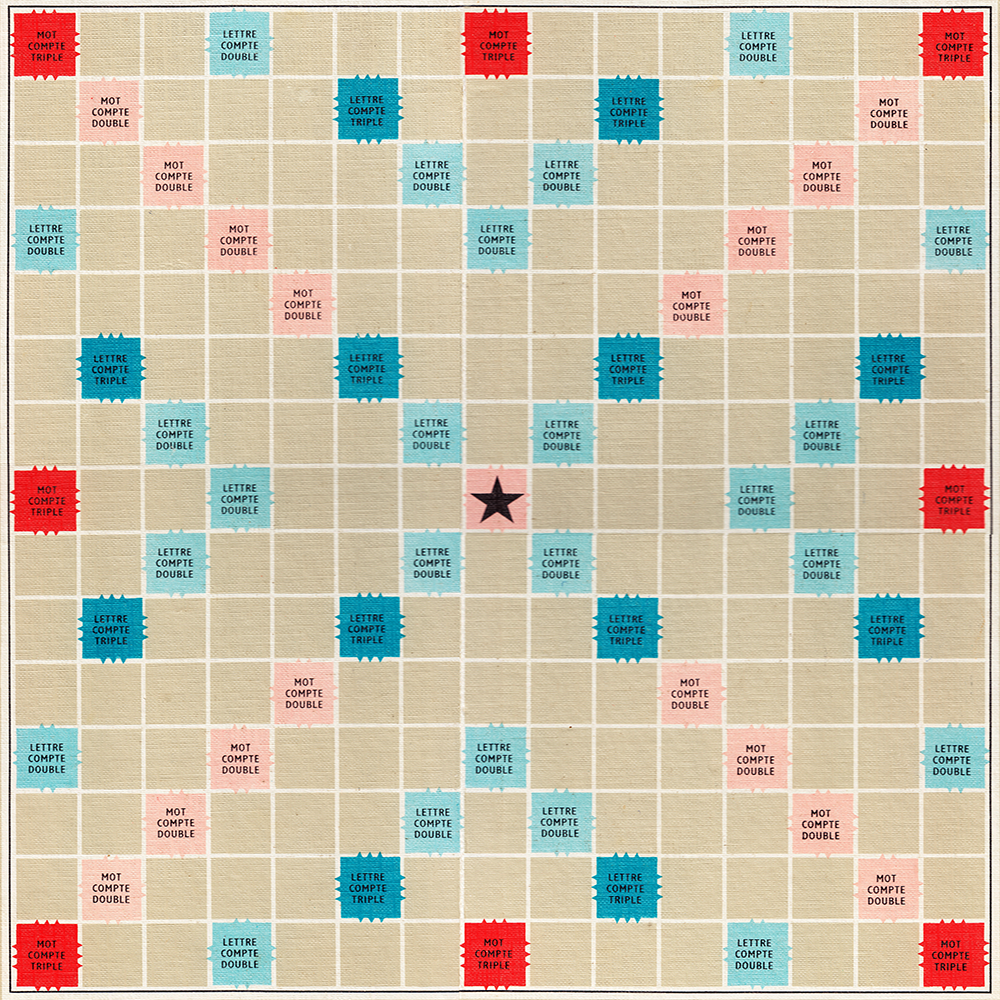
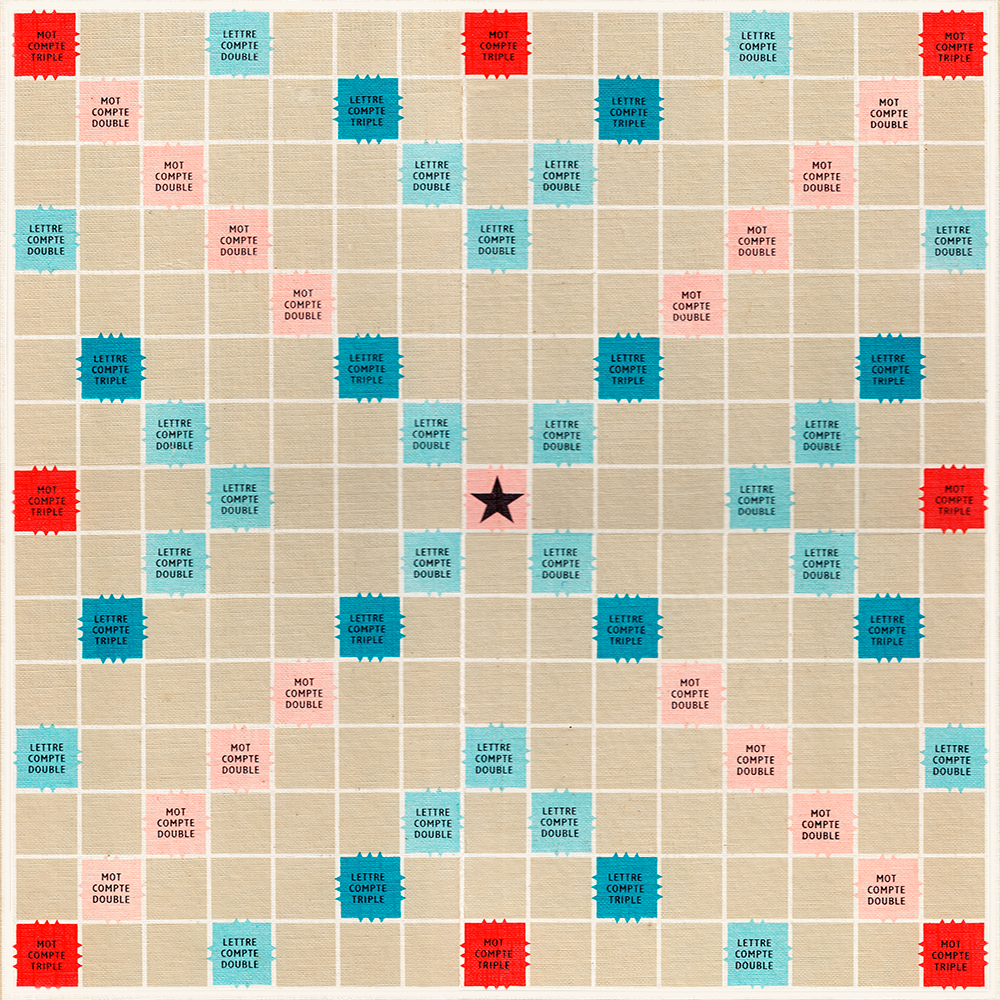
Update inner grid for a better tile alignment. Solves #39

diff --git a/Scrabble Client/src/views/swing/gameboard/GameBoard.java b/Scrabble Client/src/views/swing/gameboard/GameBoard.java
@@ -19,11 +19,11 @@ import views.swing.common.panelGrid;
 public class GameBoard extends JPanel {
 		
 		private static final int GB_HEIGHT = 710;
-		private static final int GB_WIDTH = 700;
-		private static final int GB_INNER_HEIGHT = 702;
-		private static final int GB_INNER_WIDTH = 691;
+		private static final int GB_WIDTH = 708;
+		private static final int GB_INNER_HEIGHT = 705;
+		private static final int GB_INNER_WIDTH = 701;
 		private static final int TILE_HEIGHT = 45;
-		private static final int TILE_WIDTH = 42;
+		private static final int TILE_WIDTH = 43;
 		private static boolean vintage = true;		
 		private JLabel background;
 		private boolean debug = false;
@@ -36,20 +36,28 @@ public class GameBoard extends JPanel {
 				background = new JLabel(this.icon);
 				add(background);
 				setLayout(new java.awt.GridLayout(1, 1, 0, 0)); //Allow to get rid of the gap between JPanel and JLabel
-				setBounds( 10, 10, icon.getIconWidth(), icon.getIconHeight());
+				setBounds(10,10, icon.getIconWidth(), icon.getIconHeight());
 				setVisible(true);
 				if (debug) {
-							setBorder(BorderFactory.createLineBorder(Color.RED)); // Used for DEBUG
+						setBorder(BorderFactory.createLineBorder(Color.RED)); // Used for DEBUG
+				} else {
+						setBorder(BorderFactory.createLineBorder(Color.WHITE));
 				}
 				
 				/** Construction of grid elements **/
 				/*** Grid inner container ***/
-				innerGrid = new JPanel(new GridLayout(15,15, 0, 0));
+				innerGrid = new JPanel(new GridLayout(15,15, 1, 1));
 				if (debug) {
 						innerGrid.setBorder(BorderFactory.createLineBorder(Color.YELLOW)); // Used for DEBUG
+				} else {
+						if (vintage) {
+								innerGrid.setBorder(BorderFactory.createLineBorder(Color.WHITE));
+						} else {
+								innerGrid.setBorder(BorderFactory.createLineBorder(new Color(190,39,39)));
+						}
 				}
-				innerGrid.setSize(GB_INNER_WIDTH, GB_INNER_HEIGHT);
-				innerGrid.setBounds(15, 14, GB_INNER_WIDTH, GB_INNER_HEIGHT);
+//				innerGrid.setSize(GB_INNER_WIDTH, GB_INNER_HEIGHT);
+				innerGrid.setBounds(14, 12, GB_INNER_WIDTH, GB_INNER_HEIGHT);
 				innerGrid.setOpaque(false);
 				
 				// Construct panelGrid Elements which contain DTPicture instances.
@@ -92,6 +100,11 @@ public class GameBoard extends JPanel {
 				setImageGameBoard();		
 				remove(0);
 				add(new JLabel(icon), 0);
+				if (vintage) {
+						innerGrid.setBorder(BorderFactory.createLineBorder(Color.WHITE));
+				} else {
+						innerGrid.setBorder(BorderFactory.createLineBorder(new Color(190,39,39)));
+				}
 				validate();
 				repaint();
 				innerGrid.repaint();

diff --git a/Scrabble Client/src/views/swing/gameboard/Rack.java b/Scrabble Client/src/views/swing/gameboard/Rack.java
@@ -29,7 +29,7 @@ public class Rack extends JPanel {
 		private static final int RACK_HEIGHT = 60;
 		private static final int RACK_WIDTH = 365;
 		private static final int TILE_HEIGHT = 45;
-		private static final int TILE_WIDTH = 42;
+		private static final int TILE_WIDTH = 43;
 		private ImageIcon icon;
 		private JPanel innerRack;
 		private boolean debug = false;
@@ -59,7 +59,7 @@ public class Rack extends JPanel {
 						innerRack.setBorder(BorderFactory.createLineBorder(Color.YELLOW)); // Used for DEBUG
 				}
 				innerRack.setSize(TILE_WIDTH*7, TILE_HEIGHT);
-				innerRack.setBounds(195, 737, (TILE_WIDTH + 7)*7, TILE_HEIGHT);
+				innerRack.setBounds(192, 737, (TILE_WIDTH + 7)*7, TILE_HEIGHT);
 				innerRack.setOpaque(false);
 				
 				for (int i = 0; i < RACK_LENGTH; i++) {

diff --git a/Scrabble Client/src/views/swing/gameboard/Scrabble.java b/Scrabble Client/src/views/swing/gameboard/Scrabble.java
@@ -19,7 +19,7 @@ public class Scrabble {
     
 		private JFrame frame;
 		private Container contentPane;
-		private GameBoard gb;
+		private GameBoard gb; 
 		private Rack rack;		
 		private SideMenu sideMenu;
 		private JLabel bg;
@@ -57,6 +57,7 @@ public class Scrabble {
 				frame.setIconImage(favicon);
 				frame.setSize(gb.getWidth() + gb.getInsets().left+gb.getInsets().right + 
 												SideMenu.SIDE_MENU_WIDTH, 850);
+				System.out.println(gb.getWidth() + gb.getInsets().left+gb.getInsets().right);
 				frame.setContentPane(contentPane);
 				frame.setGlassPane(GlassPane.getInstance());
 				frame.setLocationRelativeTo(null);

diff --git a/Scrabble Client/src/views/swing/gameboard/SideMenu.java b/Scrabble Client/src/views/swing/gameboard/SideMenu.java
@@ -40,7 +40,7 @@ public class SideMenu extends JPanel {
 
 		private SideMenu()	{
 				this.setLayout(null);
-				this.setBounds(700, 0, SIDE_MENU_WIDTH, 800);
+				this.setBounds(710, 0, SIDE_MENU_WIDTH, 800);
 				this.setOpaque(false);
 				this.initComponents();
 		}
@@ -257,7 +257,7 @@ public class SideMenu extends JPanel {
 								setAddWordVisible(false);
 						}
 				});
-				addWordButton.setVisible(false);
+				addWordButton.setVisible(true);
 		}
 		
 		private void initArrangeButton() {
